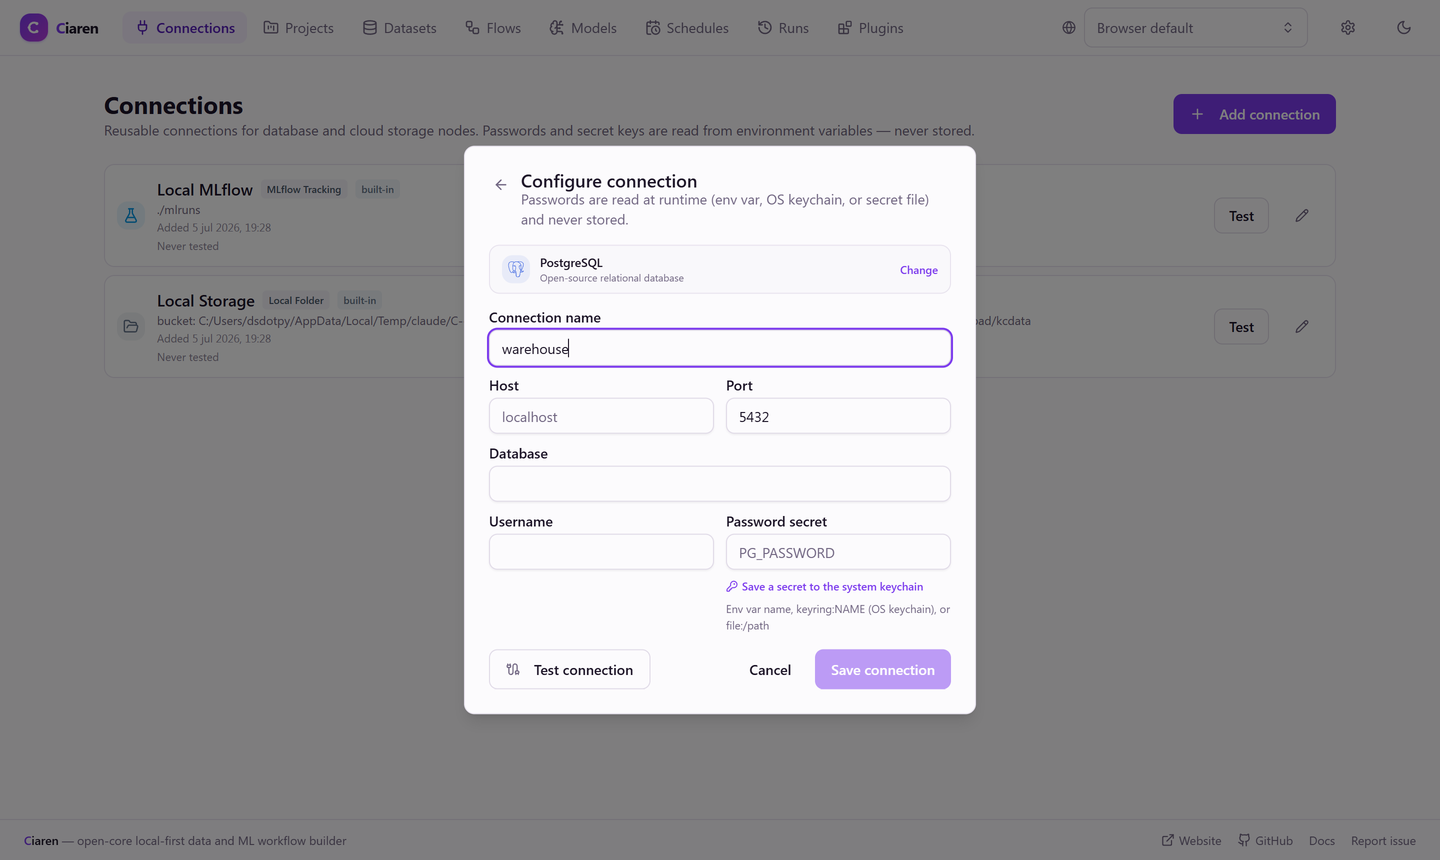
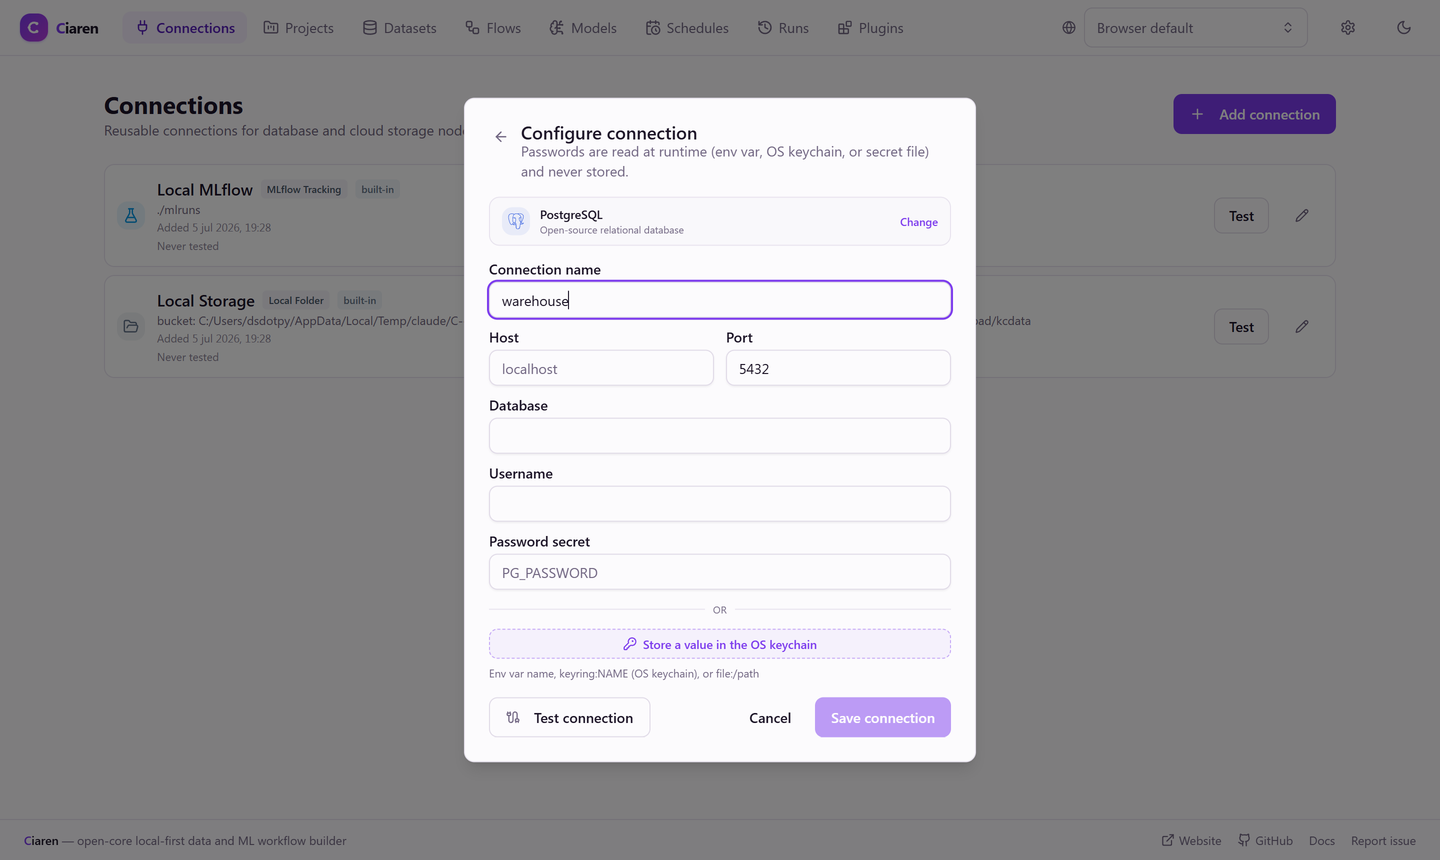
feat(connections): clearer keychain-save UI + full-width secret field
The "save to keychain" affordance is now a full-width outline button under an
"or" divider, so it reads as a first-class alternative to typing an env-var
reference instead of a small link. The save form moved from an inline panel
(cramped in the right half of the Username/Password grid, leaving whitespace on
the left) into a centered modal. The SQL and generic auth forms now stack
Username and the secret field full-width so nothing is confined to a grid column.

Recaptured connection-form-postgres.png and the save-secret-to-keychain.gif to
match the new layout.

Claude-Session: https://claude.ai/code/session_01FJcV3edcTWwJwwRK9qfubx

diff --git a/frontend/src/features/connections/ConnectionsPage.tsx b/frontend/src/features/connections/ConnectionsPage.tsx
@@ -914,22 +914,20 @@ function ConnectionDialog({
                       onChange={(e) => set({ database: e.target.value })}
                     />
                   </Field>
-                  <div className="grid grid-cols-2 gap-3">
-                    <Field label="Username">
-                      <Input
-                        value={form.username ?? ""}
-                        onChange={(e) => set({ username: e.target.value })}
-                      />
-                    </Field>
-                    <SecretRefField
-                      label="Password secret"
-                      hint="Env var name, keyring:NAME (OS keychain), or file:/path"
-                      placeholder="PG_PASSWORD"
-                      value={form.password_env ?? ""}
-                      onChange={(v) => set({ password_env: v })}
-                      suggestedName={form.name}
+                  <Field label="Username">
+                    <Input
+                      value={form.username ?? ""}
+                      onChange={(e) => set({ username: e.target.value })}
                     />
-                  </div>
+                  </Field>
+                  <SecretRefField
+                    label="Password secret"
+                    hint="Env var name, keyring:NAME (OS keychain), or file:/path"
+                    placeholder="PG_PASSWORD"
+                    value={form.password_env ?? ""}
+                    onChange={(v) => set({ password_env: v })}
+                    suggestedName={form.name}
+                  />
                 </>
               )}
 
@@ -1251,7 +1249,7 @@ function PluginProviderFields({
         </Field>
       )}
       {provider.needs_auth && (
-        <div className="grid grid-cols-2 gap-3">
+        <>
           <Field label="Username">
             <Input
               value={form.username ?? ""}
@@ -1266,7 +1264,7 @@ function PluginProviderFields({
             onChange={(v) => set({ password_env: v })}
             suggestedName={form.name}
           />
-        </div>
+        </>
       )}
       <SchemaConfigFields
         fields={schemaFields}
@@ -1523,61 +1521,79 @@ function SecretRefField({
   return (
     <Field label={label} hint={hint}>
       <Input value={value} onChange={(e) => onChange(e.target.value)} placeholder={placeholder} />
-      {canKeychain && !open && (
+      {saved ? (
+        <p className="mt-1 inline-flex items-center gap-1 text-[11px] font-medium text-emerald-600">
+          <Check className="h-3 w-3" />
+          Saved to the OS keychain as <code>{saved}</code>.
+        </p>
+      ) : (
+        canKeychain && (
+          <div className="mt-1.5 flex items-center gap-2">
+            <span className="h-px flex-1 bg-border" />
+            <span className="text-[10px] uppercase tracking-wide text-muted-foreground">or</span>
+            <span className="h-px flex-1 bg-border" />
+          </div>
+        )
+      )}
+      {canKeychain && !saved && (
         <button
           type="button"
           onClick={openPanel}
-          className="mt-0.5 inline-flex items-center gap-1 self-start text-[11px] font-medium text-primary hover:underline"
+          className="mt-1.5 inline-flex w-full items-center justify-center gap-1.5 rounded-md border border-dashed border-primary/40 bg-primary/5 px-2.5 py-1.5 text-xs font-medium text-primary transition-colors hover:border-primary/60 hover:bg-primary/10"
         >
-          <KeyRound className="h-3 w-3" />
-          Save a secret to the system keychain
+          <KeyRound className="h-3.5 w-3.5" />
+          Store a value in the OS keychain
         </button>
       )}
-      {saved && !open && (
-        <p className="mt-0.5 text-[11px] text-emerald-600">
-          Stored in the OS keychain — this connection references <code>{saved}</code>.
-        </p>
-      )}
-      {canKeychain && open && (
-        <div className="mt-1.5 flex flex-col gap-2 rounded-md border border-border bg-muted/30 p-2.5">
-          <p className="text-[11px] text-muted-foreground">
-            The value is written to your OS keychain and never stored by Ciaren; the connection keeps
-            only a <code>keyring:NAME</code> reference.
-          </p>
-          <div className="flex flex-col gap-1">
-            <Label className="text-[11px]">Keychain name</Label>
-            <Input
-              value={entryName}
-              onChange={(e) => setEntryName(e.target.value)}
-              placeholder="pg-main"
-            />
+
+      {/* Centered modal — keeps the panel out of the form's two-column grid so it
+          isn't cramped against the right edge, and reads as a first-class option. */}
+      <Dialog open={open} onOpenChange={(o) => (o ? setOpen(true) : cancel())}>
+        <DialogContent className="max-w-sm gap-4">
+          <DialogHeader>
+            <DialogTitle className="flex items-center gap-2 text-base">
+              <KeyRound className="h-4 w-4 text-primary" />
+              Store a secret in the OS keychain
+            </DialogTitle>
+            <DialogDescription>
+              The value is written to your operating system&rsquo;s keychain and never stored by
+              Ciaren. The connection keeps only a <code>keyring:NAME</code> reference.
+            </DialogDescription>
+          </DialogHeader>
+          <div className="flex flex-col gap-3">
+            <Field label="Keychain name" hint="You'll reference it as keyring:NAME">
+              <Input
+                value={entryName}
+                onChange={(e) => setEntryName(e.target.value)}
+                placeholder="pg-main"
+                autoFocus
+              />
+            </Field>
+            <Field label="Secret value">
+              <Input
+                type="password"
+                value={secretValue}
+                onChange={(e) => setSecretValue(e.target.value)}
+                placeholder="the password / token"
+                autoComplete="new-password"
+                maxLength={4096}
+              />
+            </Field>
+            {error && <p className="text-xs text-destructive">{error}</p>}
           </div>
-          <div className="flex flex-col gap-1">
-            <Label className="text-[11px]">Secret value</Label>
-            <Input
-              type="password"
-              value={secretValue}
-              onChange={(e) => setSecretValue(e.target.value)}
-              placeholder="the password / token"
-              autoComplete="new-password"
-              maxLength={4096}
-            />
-          </div>
-          {error && <p className="text-[11px] text-destructive">{error}</p>}
           <div className="flex items-center justify-end gap-2">
-            <Button size="sm" variant="ghost" onClick={cancel}>
+            <Button variant="ghost" onClick={cancel}>
               Cancel
             </Button>
             <Button
-              size="sm"
               onClick={() => void save(false)}
               disabled={!entryName || !secretValue || store.isPending}
             >
               {store.isPending ? "Saving…" : "Save to keychain"}
             </Button>
           </div>
-        </div>
-      )}
+        </DialogContent>
+      </Dialog>
     </Field>
   );
 }

diff --git a/frontend/src/features/connections/__tests__/ConnectionsPage.test.tsx b/frontend/src/features/connections/__tests__/ConnectionsPage.test.tsx
@@ -161,14 +161,14 @@ describe("save secret to OS keychain", () => {
     fireEvent.click(screen.getByText("PostgreSQL"));
 
     // The affordance shows because the keychain is available (mocked).
-    fireEvent.click(screen.getByText(/Save a secret to the system keychain/));
+    fireEvent.click(screen.getByText(/Store a value in the OS keychain/));
     fireEvent.change(screen.getByPlaceholderText("pg-main"), { target: { value: "pg-main" } });
     fireEvent.change(screen.getByPlaceholderText("the password / token"), {
       target: { value: "hunter2" },
     });
     fireEvent.click(screen.getByRole("button", { name: /save to keychain/i }));
 
-    await screen.findByText(/references/);
+    await screen.findByText(/Saved to the OS keychain/);
     expect(stored).toEqual([{ name: "pg-main", value: "hunter2", overwrite: false }]);
     // The secret input never shows the raw value as a reference — the field is
     // now keyring:pg-main.
@@ -181,7 +181,7 @@ describe("save secret to OS keychain", () => {
     } as any);
     openDialog();
     fireEvent.click(screen.getByText("PostgreSQL"));
-    expect(screen.queryByText(/Save a secret to the system keychain/)).not.toBeInTheDocument();
+    expect(screen.queryByText(/Store a value in the OS keychain/)).not.toBeInTheDocument();
   });
 });
 